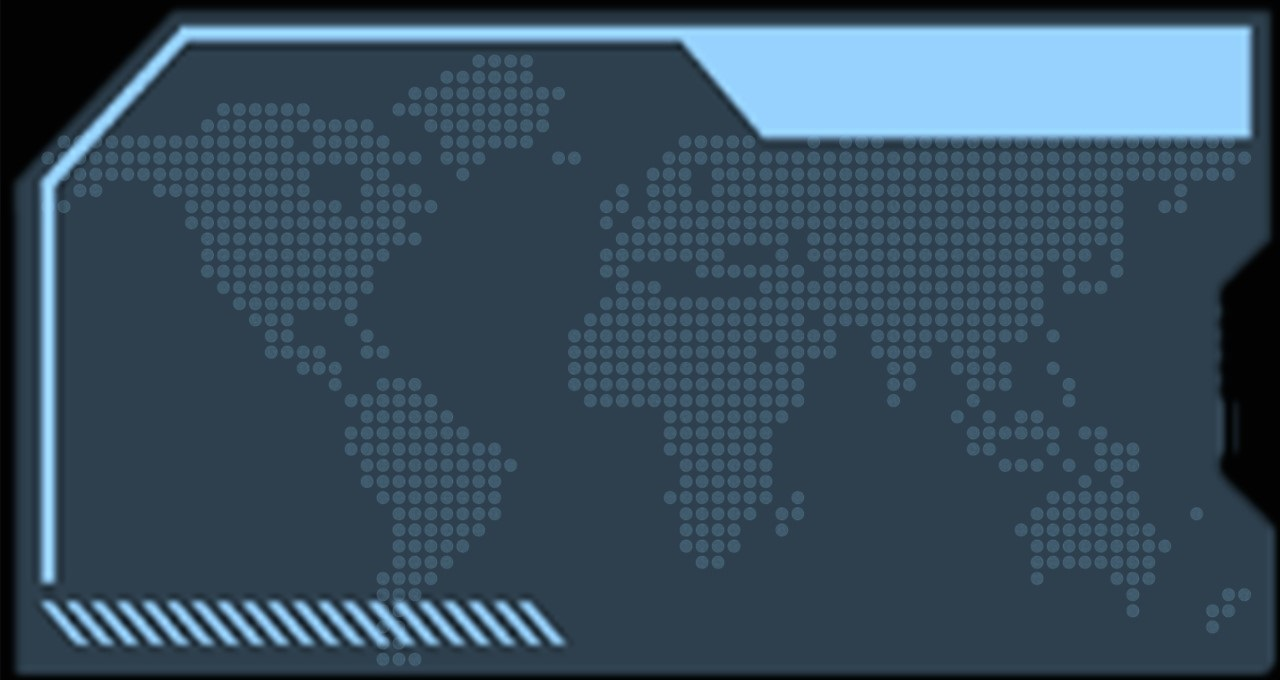
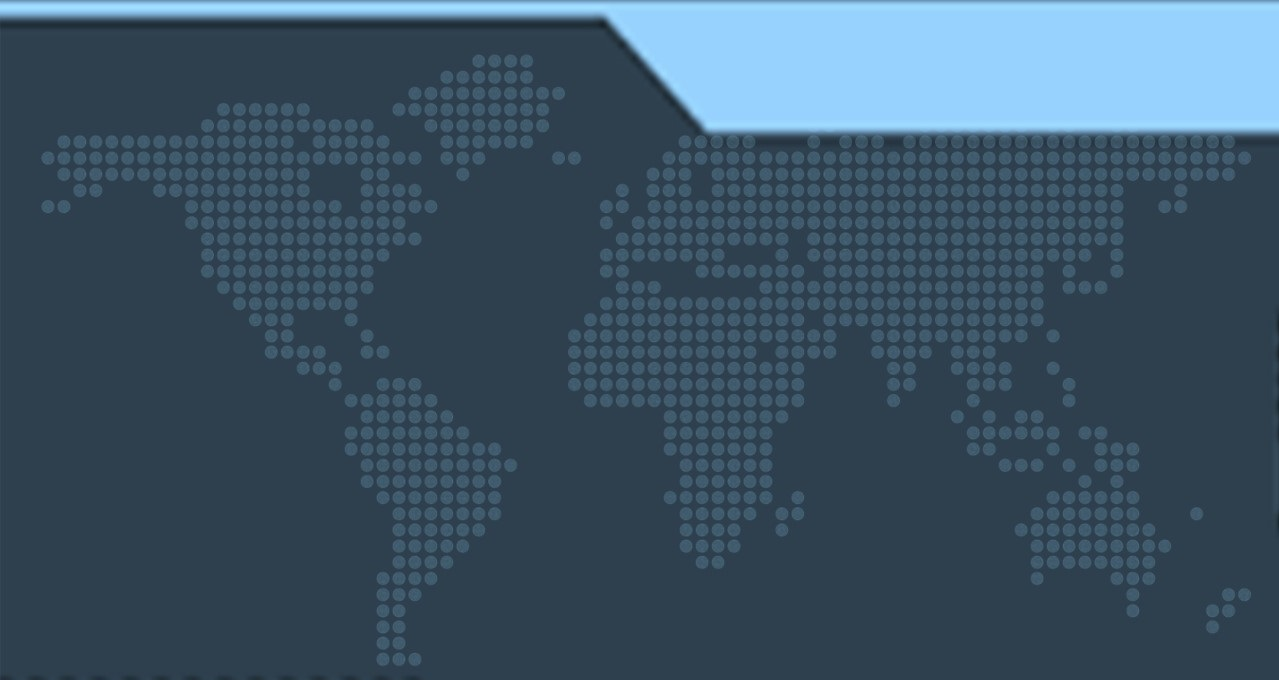
Add status page debug

Changed region(s): [[0.0, 0.0, 1.0, 1.0]]

diff --git a/src/drivers/displays/display.cpp b/src/drivers/displays/display.cpp
@@ -20,8 +20,9 @@ LV_FONT_DECLARE(symbol_14)
 static TFT_eSPI tft = TFT_eSPI();
 static SemaphoreHandle_t lvgl_xMutex = xSemaphoreCreateMutex();
 
-static lv_obj_t *parent_docker = NULL, *loading_page = NULL, *config_page = NULL ,*miner_page = NULL, *staus_page = NULL;
+static lv_obj_t *parent_docker = NULL, *loading_page = NULL, *config_page = NULL ,*miner_page = NULL, *status_page = NULL;
 static lv_obj_t *lb_version = NULL, *lb_cfg_timeout = NULL, *lb_hashrate = NULL, *lb_blk_hit = NULL, *lb_temp = NULL, *lb_power = NULL, *lb_wifi = NULL, *lb_uptime_day = NULL, *lb_uptime_hms = NULL, *lb_diff = NULL;
+static lv_obj_t *lb_hr_healthy = NULL;
 static lv_obj_t *lb_share = NULL, *lb_fan = NULL, *lb_hr_unit = NULL, *lb_uptime_day_unit = NULL;
 static lv_obj_t *lb_uptime_symbol = NULL, *lb_wifi_symbol = NULL, *lb_diff_symbol = NULL, *lb_share_symb = NULL, *lb_temp_symb = NULL, *lb_fan_symb = NULL;
 static lv_obj_t *lb_price = NULL;
@@ -136,13 +137,13 @@ static void ui_layout_init(void){
   lv_obj_set_size(miner_img_obj, SCREEN_WIDTH, SCREEN_HEIGHT);
   lv_obj_align(miner_img_obj, LV_ALIGN_TOP_LEFT, 0, 0);
   // Create status page  
-  staus_page = lv_obj_create(parent_docker);
-  lv_obj_set_size(staus_page, SCREEN_WIDTH, SCREEN_HEIGHT);
-  lv_obj_set_pos(staus_page, 1 * SCREEN_WIDTH, 1 * SCREEN_HEIGHT);
-  lv_obj_set_style_pad_all(staus_page, 0, 0);
-  lv_obj_set_style_border_width(staus_page, 0, 0);
-  lv_obj_set_scrollbar_mode(staus_page, LV_SCROLLBAR_MODE_OFF);
-  lv_obj_t *status_img_obj = lv_img_create(staus_page);
+  status_page = lv_obj_create(parent_docker);
+  lv_obj_set_size(status_page, SCREEN_WIDTH, SCREEN_HEIGHT);
+  lv_obj_set_pos(status_page, 1 * SCREEN_WIDTH, 1 * SCREEN_HEIGHT);
+  lv_obj_set_style_pad_all(status_page, 0, 0);
+  lv_obj_set_style_border_width(status_page, 0, 0);
+  lv_obj_set_scrollbar_mode(status_page, LV_SCROLLBAR_MODE_OFF);
+  lv_obj_t *status_img_obj = lv_img_create(status_page);
   lv_img_set_src(status_img_obj, &status_page_img);
   lv_obj_set_size(status_img_obj, SCREEN_WIDTH, SCREEN_HEIGHT);
   lv_obj_align(status_img_obj, LV_ALIGN_TOP_LEFT, 0, 0);
@@ -150,7 +151,7 @@ static void ui_layout_init(void){
   pages[0] = loading_page;
   pages[1] = config_page;
   pages[2] = miner_page;
-  pages[3] = staus_page;
+  pages[3] = status_page;
   //////////////////////////////////////loading page layout///////////////////////////////////////////////
   //Version
   const lv_font_t *font = &lv_font_montserrat_14;
@@ -173,15 +174,15 @@ static void ui_layout_init(void){
   lv_label_set_long_mode(lb_cfg_timeout, LV_LABEL_LONG_DOT);
   lv_obj_align( lb_cfg_timeout, LV_ALIGN_BOTTOM_MID, 175, 0);
   //////////////////////////////////////status page layout///////////////////////////////////////////////
-  font_color = lv_color_hex(0xFFFFFF);
-
-
-
-
-
-
-
-
+  font_color = lv_color_hex(0x808080);
+  font = &lv_font_montserrat_18;
+  lb_hr_healthy   = lv_label_create( status_page );
+  lv_obj_set_width(lb_hr_healthy, SCREEN_WIDTH);
+  lv_label_set_text( lb_hr_healthy, "HR healthy");
+  lv_obj_set_style_text_font(lb_hr_healthy, font, LV_PART_MAIN);
+  lv_obj_set_style_text_color(lb_hr_healthy, font_color, LV_PART_MAIN); 
+  lv_label_set_long_mode(lb_hr_healthy, LV_LABEL_LONG_DOT);
+  lv_obj_align( lb_hr_healthy, LV_ALIGN_TOP_MID, 133, 2);
   //////////////////////////////////////miner page layout///////////////////////////////////////////////
   //Hashrate value
   font = &ds_digib_font_38;
@@ -470,8 +471,75 @@ static void ui_update_ota_bar(int progress){
 
 }
 
+static void ui_hashrate_distribution(double hashrate){
+  #define MAX_HASHRATE 600  
+  #define STEP 60 // step 
+  #define NUM_BARS (MAX_HASHRATE / STEP) 
+
+  static lv_obj_t *chart;
+  static lv_chart_series_t *series;
+  static lv_obj_t *label_scale;
+  static uint64_t hr_total_cnt = 0;
+
+  if(chart == NULL){
+    chart = lv_chart_create(status_page);
+    lv_obj_set_size(chart, SCREEN_WIDTH - 16, SCREEN_HEIGHT - 50); 
+    lv_obj_align(chart, LV_ALIGN_CENTER, 16, 0);
+
+    // set the chart type
+    lv_chart_set_type(chart, LV_CHART_TYPE_BAR);
+
+    // set the number of data points
+    lv_chart_set_range(chart, LV_CHART_AXIS_PRIMARY_Y, 0, 100); 
+
+    // Add a series to the chart
+    series = lv_chart_add_series(chart, lv_palette_main(LV_PALETTE_RED), LV_CHART_AXIS_PRIMARY_Y);
+
+    //Add a scale to the chart
+    label_scale = lv_label_create(status_page);
+    lv_label_set_text(label_scale, ("Scale: " + String(STEP) + "GH/s").c_str());
+    lv_obj_set_style_text_color(label_scale, lv_color_hex(0xFFED00), LV_PART_MAIN); 
+    lv_obj_align(label_scale, LV_ALIGN_TOP_LEFT, 5, 5); 
+
+    // set all bars to 0
+    for (int i = 0; i < NUM_BARS; i++) {
+        lv_chart_set_value_by_id(chart, series, i, 0);
+    }
+
+    // set axis ticks
+    lv_chart_set_axis_tick(chart, LV_CHART_AXIS_PRIMARY_X, 2, 2, NUM_BARS, 1, true, 0);
+    lv_chart_set_axis_tick(chart, LV_CHART_AXIS_PRIMARY_Y, 2, 2, 5, 1, true, 25);
+
+    // set style to transparent
+    lv_obj_set_style_bg_opa(chart, LV_OPA_TRANSP, LV_PART_MAIN);
+    lv_obj_set_style_border_opa(chart, LV_OPA_TRANSP, LV_PART_MAIN);
+
+    // set grid style
+    static lv_style_t style_grid;
+    lv_style_init(&style_grid);
+    lv_style_set_line_dash_width(&style_grid, 2); 
+    lv_style_set_line_dash_gap(&style_grid, 4); 
+    lv_obj_add_style(chart, &style_grid, LV_PART_MAIN | LV_STATE_DEFAULT);
+
+
+    // set font for ticks
+    lv_obj_set_style_text_font(chart, &lv_font_montserrat_12, LV_PART_TICKS); 
+  }
+
+  static uint64_t counts[NUM_BARS] = {0};
+  int index = hashrate/1000/1000/1000 / STEP;
+  index = (index >= NUM_BARS) ? NUM_BARS - 1 : index;
+
+  counts[index]++;
+  hr_total_cnt++;
+
+  for (int i = 0; i < NUM_BARS; i++) {
+      lv_chart_set_value_by_id(chart, series, i, (uint8_t)(100*(float)counts[i] / (float)hr_total_cnt));
+  }
+}
+
 void ui_switch_next_page_cb(){
-  static uint16_t page_index = 2;
+  static uint8_t page_index = 2;
   page_index = (page_index == 2) ? 3 : 2;//switch between miner page and status page
   lv_obj_scroll_to_view(pages[page_index], LV_ANIM_ON);
 }
@@ -694,12 +762,18 @@ void ui_thread_entry(void *args){
       else font_color = lv_color_hex(0xFFFFFF);//white
       lv_obj_set_style_text_color(lb_price, font_color, LV_PART_MAIN);
 
-
-
       //ota progress layout
       if(g_nmaxe.ota.ota_running){
         ui_update_ota_bar(g_nmaxe.ota.progress);
       }
+
+      //hashrate distribution chart
+      static double last_hashrate = 0;
+      if(last_hashrate != g_nmaxe.mstatus.hashrate){
+        ui_hashrate_distribution(g_nmaxe.mstatus.hashrate);
+        last_hashrate = g_nmaxe.mstatus.hashrate;
+      }
+
 
       //hashrate
       lv_label_set_text_fmt(lb_hashrate, "%s", hashrate.substring(0, hashrate.length() - 1).c_str());

diff --git a/src/drivers/displays/lv_conf.h b/src/drivers/displays/lv_conf.h
@@ -362,11 +362,11 @@
 /*Montserrat fonts with ASCII range and some symbols using bpp = 4
  *https://fonts.google.com/specimen/Montserrat*/
 #define LV_FONT_MONTSERRAT_8  0
-#define LV_FONT_MONTSERRAT_10 0
+#define LV_FONT_MONTSERRAT_10 1
 #define LV_FONT_MONTSERRAT_12 1
 #define LV_FONT_MONTSERRAT_14 1
 #define LV_FONT_MONTSERRAT_16 0
-#define LV_FONT_MONTSERRAT_18 0
+#define LV_FONT_MONTSERRAT_18 1
 #define LV_FONT_MONTSERRAT_20 0
 #define LV_FONT_MONTSERRAT_22 0
 #define LV_FONT_MONTSERRAT_24 0

diff --git a/src/global.h b/src/global.h
@@ -8,7 +8,7 @@
 #include "stratum.h"
 #include "miner.h"
 
-#define CURRENT_FW_VERSION  "v2.1.151"
+#define CURRENT_FW_VERSION  "v2.1.152"
 #define CURRENT_HW_VERSION  "v1.1.1"
 
 
